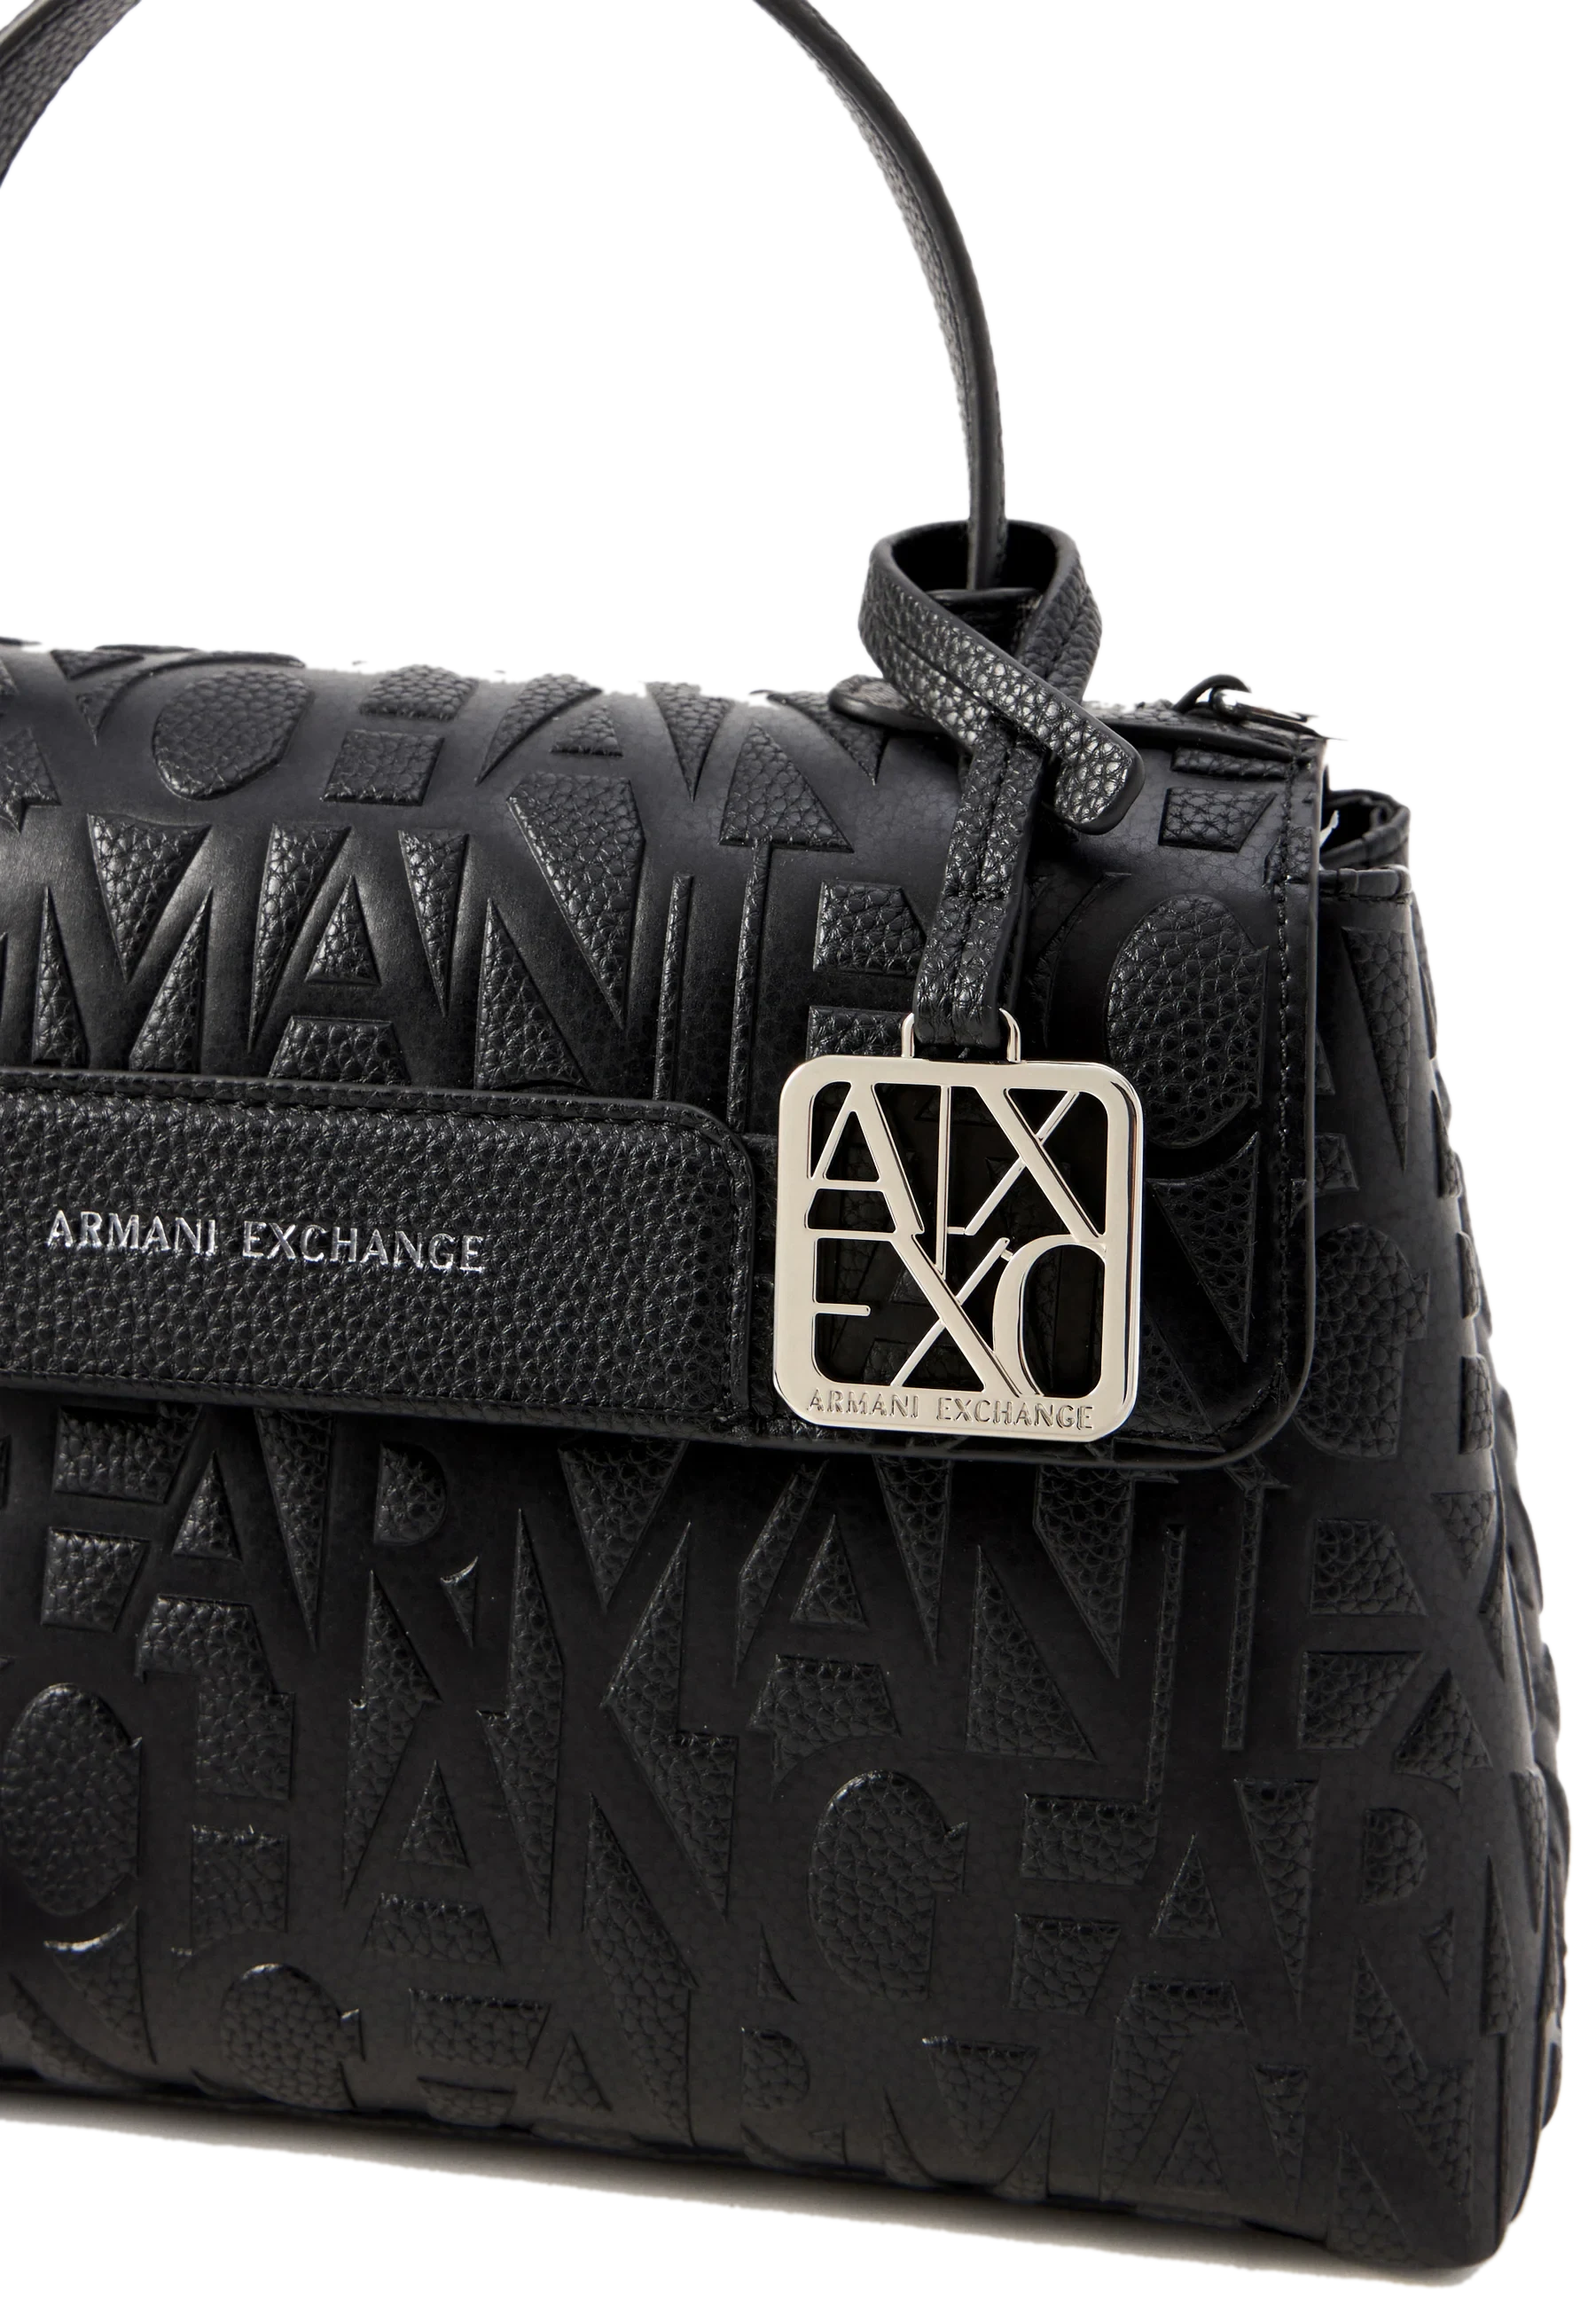
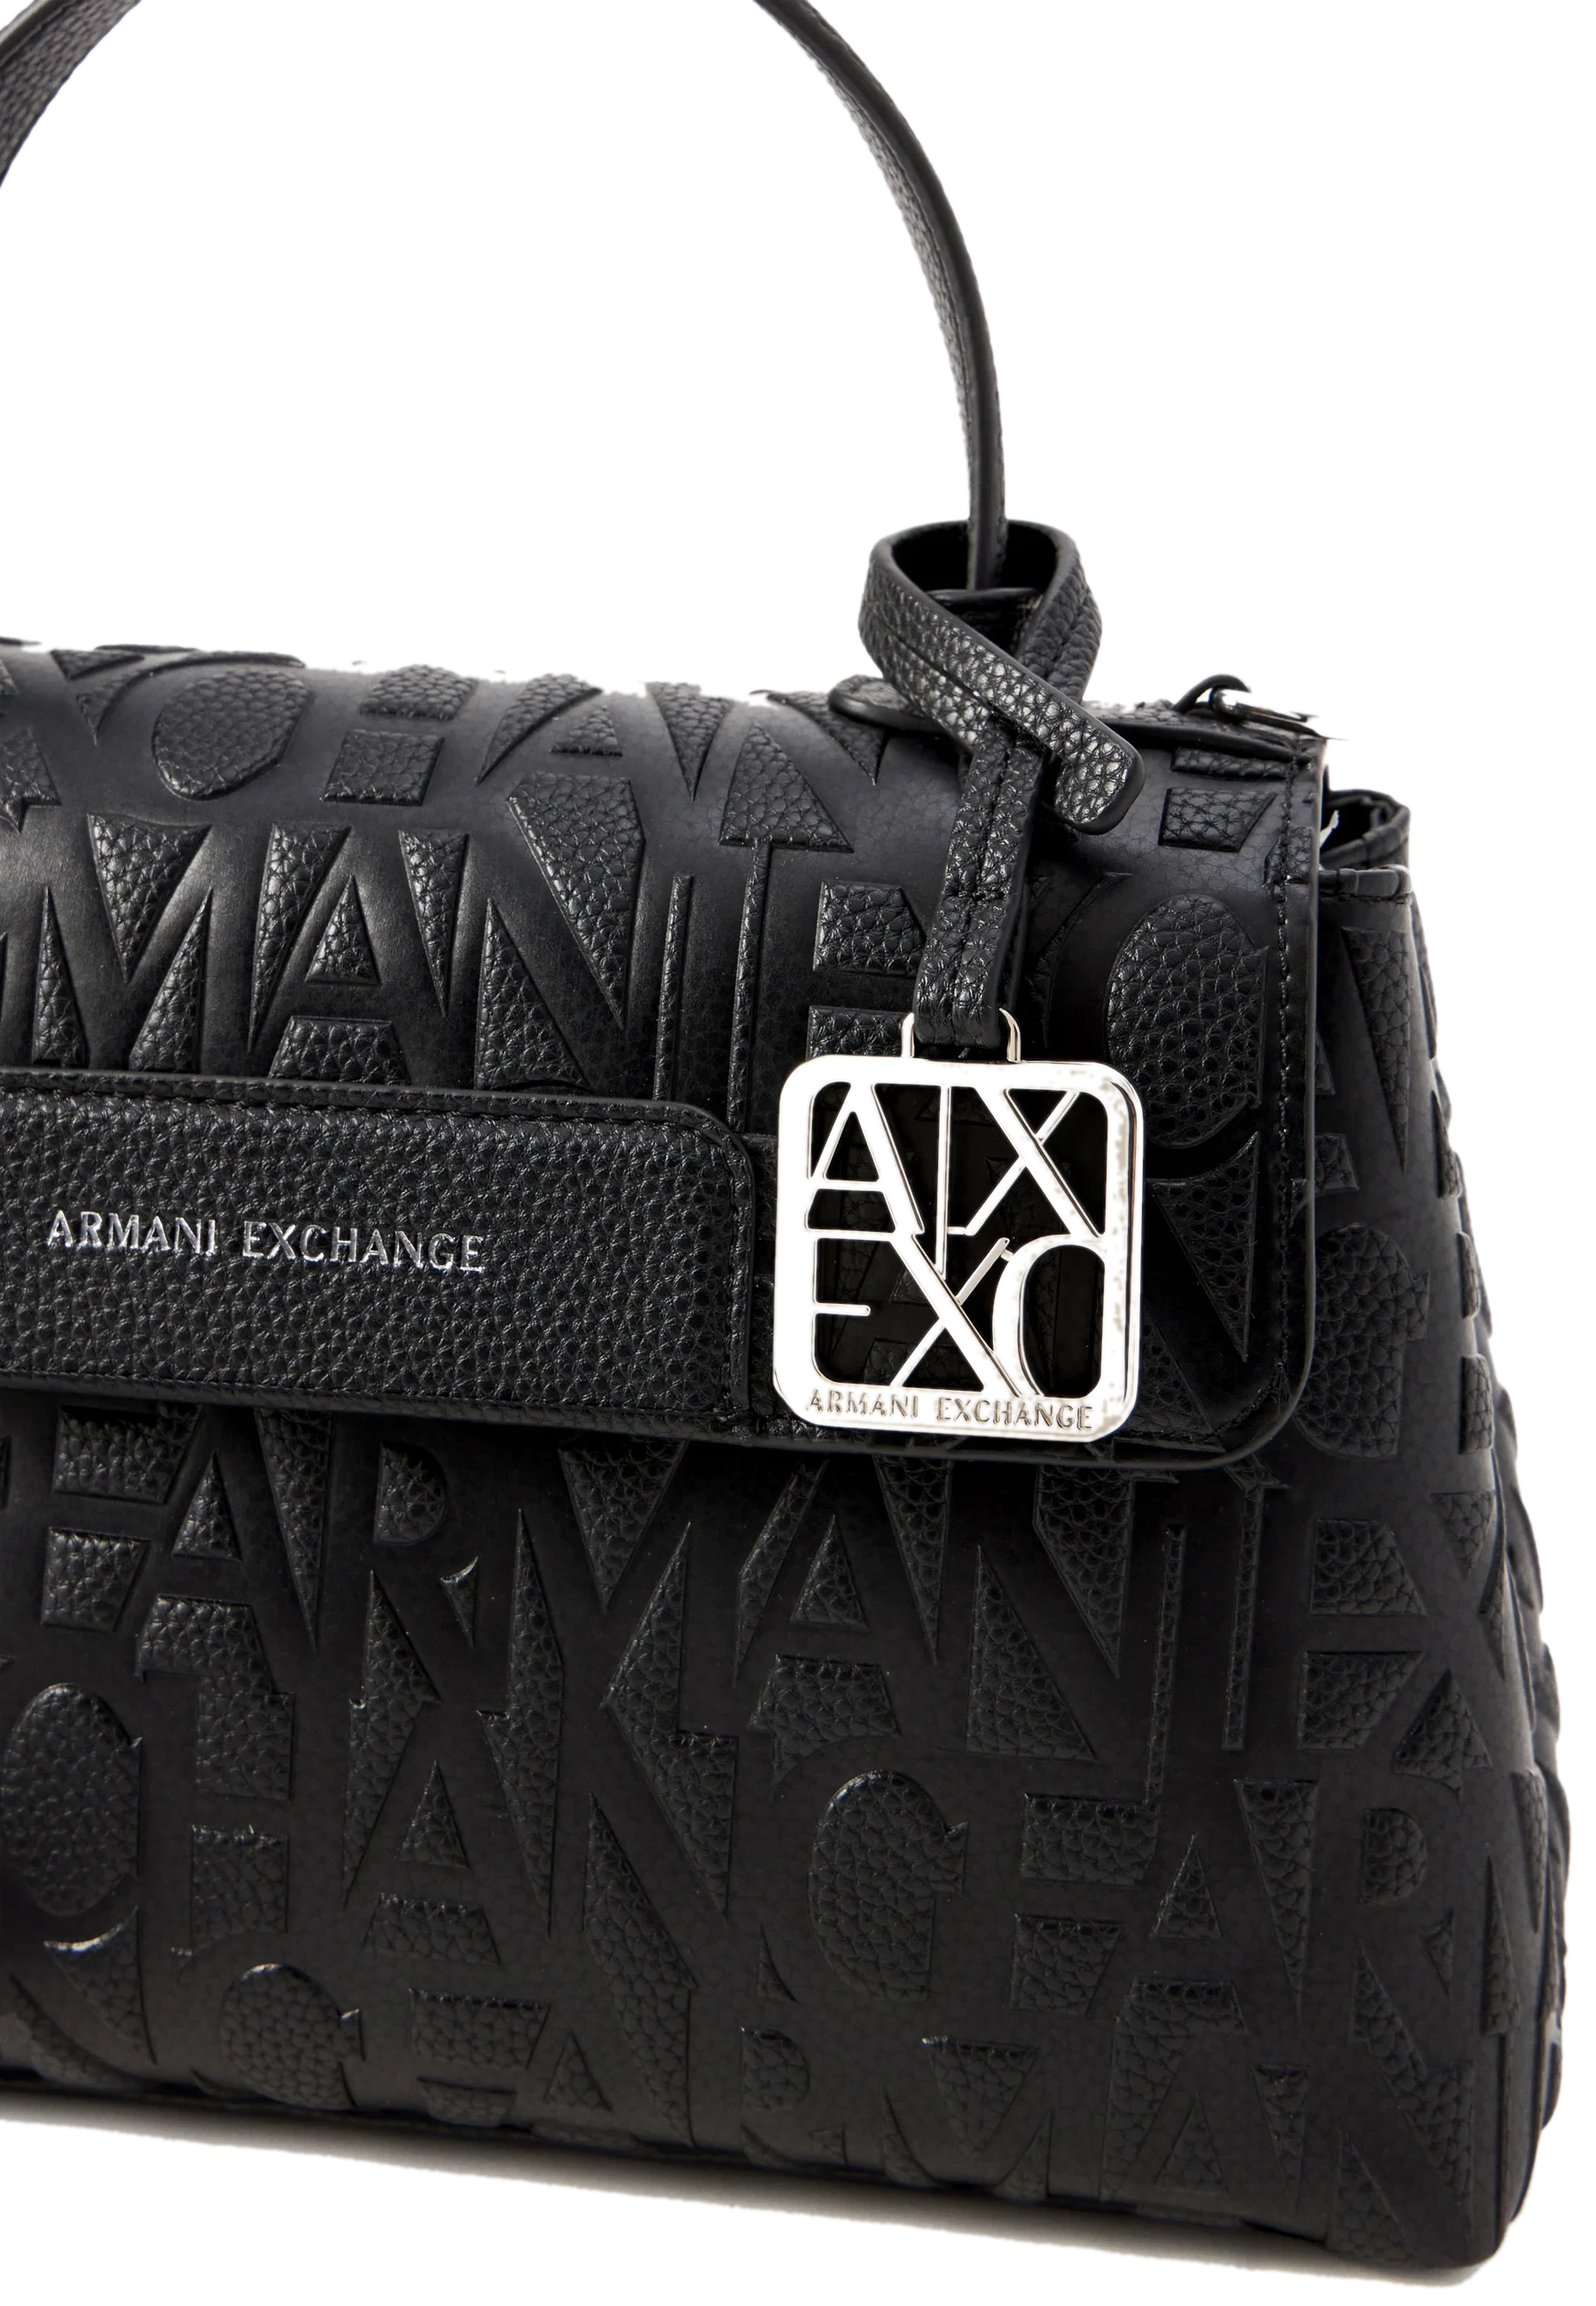
Birthday: replace turntable with luxury gift-box reveal
- Remove the 4-face rotating showcase entirely
- New sequence: gift box (dark leather look, gold ribbon + SVG bow)
  scales in, wiggles, then the lid flies off and the single bag photo
  rises out and floats above the open box
- Gift photos reprocessed: enclosed light pockets (inside the handle
  loop) now removed too
- Reduced-motion fallback shows the bag directly

Claude-Session: https://claude.ai/code/session_011BgLGicRivibMALvqARCmN

Changed region(s): [[0.4667, 0.4362, 0.7156, 0.6231]]

diff --git a/birthday.html b/birthday.html
@@ -180,14 +180,43 @@
     .gift-glow{position:absolute;inset:-16%;border-radius:50%;pointer-events:none;
       background:radial-gradient(circle,rgba(220,192,138,.32) 0%,rgba(184,151,92,.1) 40%,transparent 66%);
       animation:halo 6s ease-in-out infinite}
-    .turn{position:absolute;inset:0;transform-style:preserve-3d;will-change:transform;cursor:grab}
-    .turn.grabbing{cursor:grabbing}
-    .face{position:absolute;inset:0;margin:0;
-      display:flex;align-items:center;justify-content:center;
-      transform:rotateY(calc(var(--i)*90deg)) translateZ(calc(var(--w)/2 + 16px));
-      backface-visibility:hidden}
-    .face img{max-width:100%;max-height:100%;object-fit:contain;display:block;
-      filter:drop-shadow(0 22px 40px rgba(0,0,0,.6)) drop-shadow(0 0 30px rgba(220,192,138,.10))}
+    /* ---- The gift box that opens ---- */
+    .gbox{position:absolute;left:9%;bottom:4%;width:82%;aspect-ratio:1/.74}
+    .gift.on .gbox{animation:wiggle 1.1s ease-in-out .7s 1}
+    @keyframes wiggle{0%,100%{transform:rotate(0)}18%{transform:rotate(-2.4deg)}
+      38%{transform:rotate(2.2deg)}58%{transform:rotate(-1.7deg)}78%{transform:rotate(1.2deg)}}
+    .gbox-bag{position:absolute;left:50%;bottom:22%;width:96%;z-index:2;opacity:0;
+      transform:translateX(-50%) translateY(26%) scale(.55);
+      filter:drop-shadow(0 26px 46px rgba(0,0,0,.62)) drop-shadow(0 0 34px rgba(220,192,138,.12))}
+    .gbox.open .gbox-bag{animation:bag-rise 1.5s var(--ease) .35s forwards,bag-float 5.5s ease-in-out 2.3s infinite}
+    @keyframes bag-rise{to{opacity:1;transform:translateX(-50%) translateY(-27%) scale(1.04)}}
+    @keyframes bag-float{0%,100%{transform:translateX(-50%) translateY(-27%) scale(1.04)}
+      50%{transform:translateX(-50%) translateY(-32%) scale(1.04)}}
+    .gbox-base{position:absolute;left:2%;bottom:0;width:96%;height:56%;z-index:3;
+      background:linear-gradient(172deg,#1c1712,#0f0c09 70%);
+      border:1px solid rgba(220,192,138,.55);border-radius:4px;
+      box-shadow:0 20px 44px rgba(0,0,0,.55),inset 0 1px 0 rgba(255,243,214,.08)}
+    .gbox-base::before{content:"";position:absolute;top:0;bottom:0;left:50%;width:13%;
+      transform:translateX(-50%);
+      background:linear-gradient(90deg,rgba(184,151,92,.9),#f0dcae 45%,rgba(184,151,92,.9));
+      opacity:.92}
+    .gbox-base::after{content:"";position:absolute;inset:0;border-radius:4px;
+      background:linear-gradient(115deg,transparent 40%,rgba(255,243,214,.10) 50%,transparent 60%)}
+    .gbox-lid{position:absolute;left:-2%;bottom:52%;width:104%;height:17%;z-index:4;
+      background:linear-gradient(172deg,#241d15,#141009 75%);
+      border:1px solid rgba(220,192,138,.65);border-radius:4px;
+      box-shadow:0 10px 26px rgba(0,0,0,.5),inset 0 1px 0 rgba(255,243,214,.1);
+      transition:transform 1.15s var(--ease) .05s,opacity .8s var(--ease) .55s}
+    .gbox-lid::before{content:"";position:absolute;top:0;bottom:0;left:50%;width:12.6%;
+      transform:translateX(-50%);
+      background:linear-gradient(90deg,rgba(184,151,92,.9),#f0dcae 45%,rgba(184,151,92,.9));
+      opacity:.95}
+    .gbox.open .gbox-lid{transform:translateY(-320%) rotate(-15deg);opacity:0}
+    .gbox-bow{position:absolute;left:50%;bottom:100%;transform:translate(-50%,32%);
+      width:44%;height:auto;z-index:5;pointer-events:none;
+      filter:drop-shadow(0 4px 10px rgba(0,0,0,.45))}
+    @media(prefers-reduced-motion:reduce){
+      .gbox.open .gbox-bag{opacity:1;transform:translateX(-50%) translateY(-27%) scale(1.04)}}
     .pedestal{position:absolute;left:50%;bottom:-19%;width:132%;aspect-ratio:10/2.6;transform:translateX(-50%);pointer-events:none}
     .pedestal i{position:absolute;inset:0;border-radius:50%;border:1px solid rgba(220,192,138,.55);
       box-shadow:0 0 24px rgba(220,192,138,.25),inset 0 0 30px rgba(220,192,138,.12)}
@@ -375,11 +404,24 @@
       <div class="gift" id="gift">
         <div class="spot" aria-hidden="true"></div>
         <div class="gift-glow" aria-hidden="true"></div>
-        <div class="turn" id="turn">
-          <figure class="face" style="--i:0"><img src="images/gift-front.webp"  alt="Your gift" /></figure>
-          <figure class="face" style="--i:1"><img src="images/gift-detail.webp" alt="" /></figure>
-          <figure class="face" style="--i:2"><img src="images/gift-back.webp"   alt="" /></figure>
-          <figure class="face" style="--i:3"><img src="images/gift-inside.webp" alt="" /></figure>
+        <div class="gbox" id="gbox">
+          <img class="gbox-bag" src="images/gift-front.webp" alt="Your gift" />
+          <div class="gbox-base" aria-hidden="true"></div>
+          <div class="gbox-lid" aria-hidden="true">
+            <svg class="gbox-bow" viewBox="0 0 120 62" aria-hidden="true">
+              <defs>
+                <linearGradient id="bowg" x1="0" y1="0" x2="0" y2="1">
+                  <stop offset="0" stop-color="#f0dcae"/><stop offset="1" stop-color="#b8975c"/>
+                </linearGradient>
+              </defs>
+              <path d="M60 40 C36 6 8 12 16 30 C21 42 44 45 60 40 Z"
+                fill="rgba(220,192,138,.22)" stroke="url(#bowg)" stroke-width="2.6" stroke-linejoin="round"/>
+              <path d="M60 40 C84 6 112 12 104 30 C99 42 76 45 60 40 Z"
+                fill="rgba(220,192,138,.22)" stroke="url(#bowg)" stroke-width="2.6" stroke-linejoin="round"/>
+              <path d="M60 44 L46 60 M60 44 L75 60" stroke="url(#bowg)" stroke-width="2.6" stroke-linecap="round"/>
+              <circle cx="60" cy="40" r="6.5" fill="url(#bowg)"/>
+            </svg>
+          </div>
         </div>
         <div class="pedestal" aria-hidden="true"><b></b><i></i><i></i></div>
         <span class="spark" style="--x:-6%;--y:22%;--d:.2s">✦</span>
@@ -452,48 +494,17 @@
     var rose=document.getElementById('rose'), wrap=document.getElementById('rosewrap'),
         reveal=document.getElementById('giftreveal'), gift=document.getElementById('gift'),
         gcap=document.getElementById('gcap');
+    var gbox=document.getElementById('gbox');
     var opened=false;
     rose.addEventListener('click',function(){
       if(opened) return; opened=true;
       burst(0.5,0.5,true);
       wrap.classList.add('bloom');
       setTimeout(function(){ wrap.style.display='none'; reveal.classList.add('on'); gift.classList.add('on'); },850);
-      setTimeout(function(){ confetti(); },1500);
-      setTimeout(function(){ gcap.classList.add('on'); burst(0.5,0.4,false); },2100);
+      // the gift box wiggles… then the lid flies off and the bag rises out
+      setTimeout(function(){ gbox.classList.add('open'); confetti(); burst(0.5,0.45,false); },2400);
+      setTimeout(function(){ gcap.classList.add('on'); },3600);
     });
-
-    /* ---- The turntable: slow auto-spin + drag to rotate ---- */
-    var turn=document.getElementById('turn'),
-        faces=[].slice.call(turn.querySelectorAll('.face'));
-    var angle=0, vel=0.22, BASE=0.22, dragging=false, lastX=0, lastT=0;
-    function render(){
-      turn.style.transform='rotateX(-8deg) rotateY('+angle+'deg)';
-      for(var i=0;i<faces.length;i++){
-        var a=((angle+i*90)%360+360)%360, c=Math.cos(a*Math.PI/180);
-        faces[i].style.filter='brightness('+(0.62+0.38*Math.max(0,c)).toFixed(3)+')';
-      }
-    }
-    if(reduced){ render(); }
-    else{
-      (function loop(){
-        if(!dragging){ angle+=vel; vel+=(BASE-vel)*0.02; }
-        render(); requestAnimationFrame(loop);
-      })();
-      gift.addEventListener('pointerdown',function(e){
-        dragging=true; lastX=e.clientX; lastT=performance.now();
-        turn.classList.add('grabbing'); gift.setPointerCapture&&gift.setPointerCapture(e.pointerId);
-      });
-      gift.addEventListener('pointermove',function(e){
-        if(!dragging) return;
-        var now=performance.now(), dx=e.clientX-lastX;
-        angle+=dx*0.45;
-        vel=Math.max(-6,Math.min(6,dx*0.45/Math.max(1,now-lastT)*16));
-        lastX=e.clientX; lastT=now;
-      });
-      function drop(){ dragging=false; turn.classList.remove('grabbing'); }
-      gift.addEventListener('pointerup',drop);
-      gift.addEventListener('pointercancel',drop);
-    }
 
     /* ---- Stage 4: only offer the finale once the couple photo loads ---- */
     var morebtn=document.getElementById('morebtn'), usphoto=document.getElementById('usphoto');
